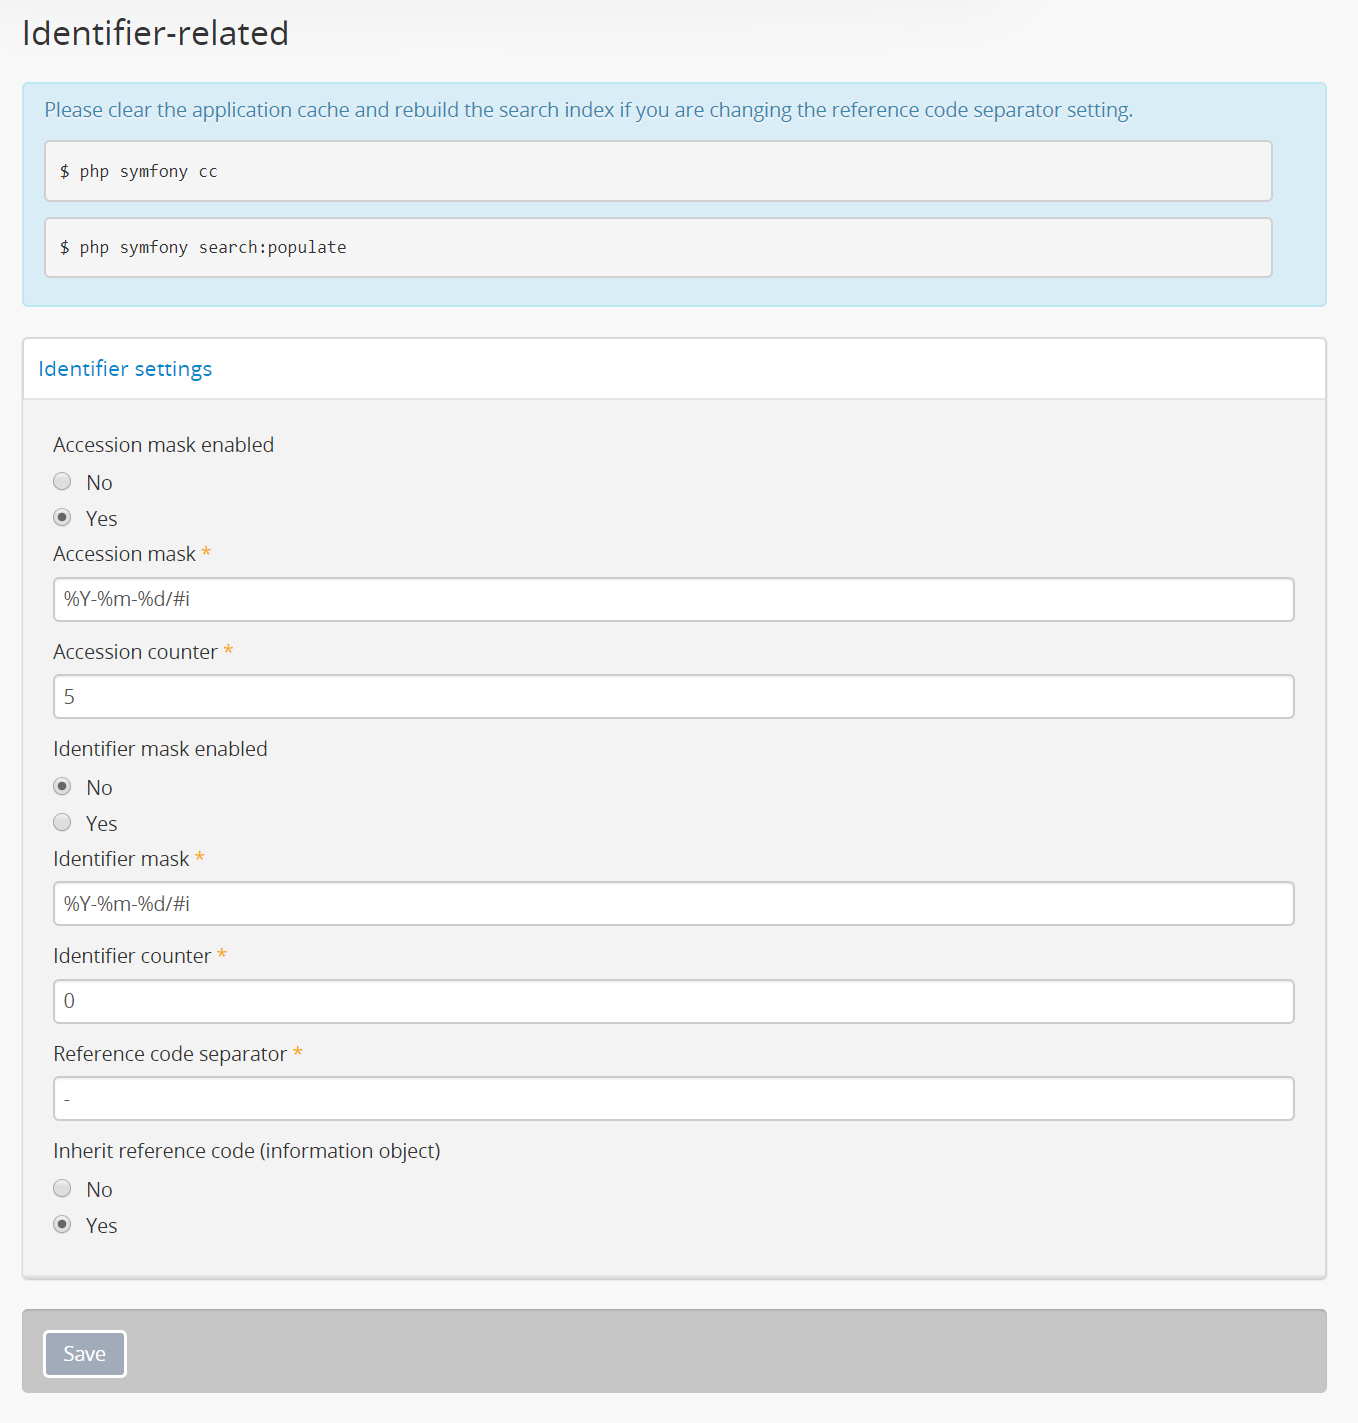
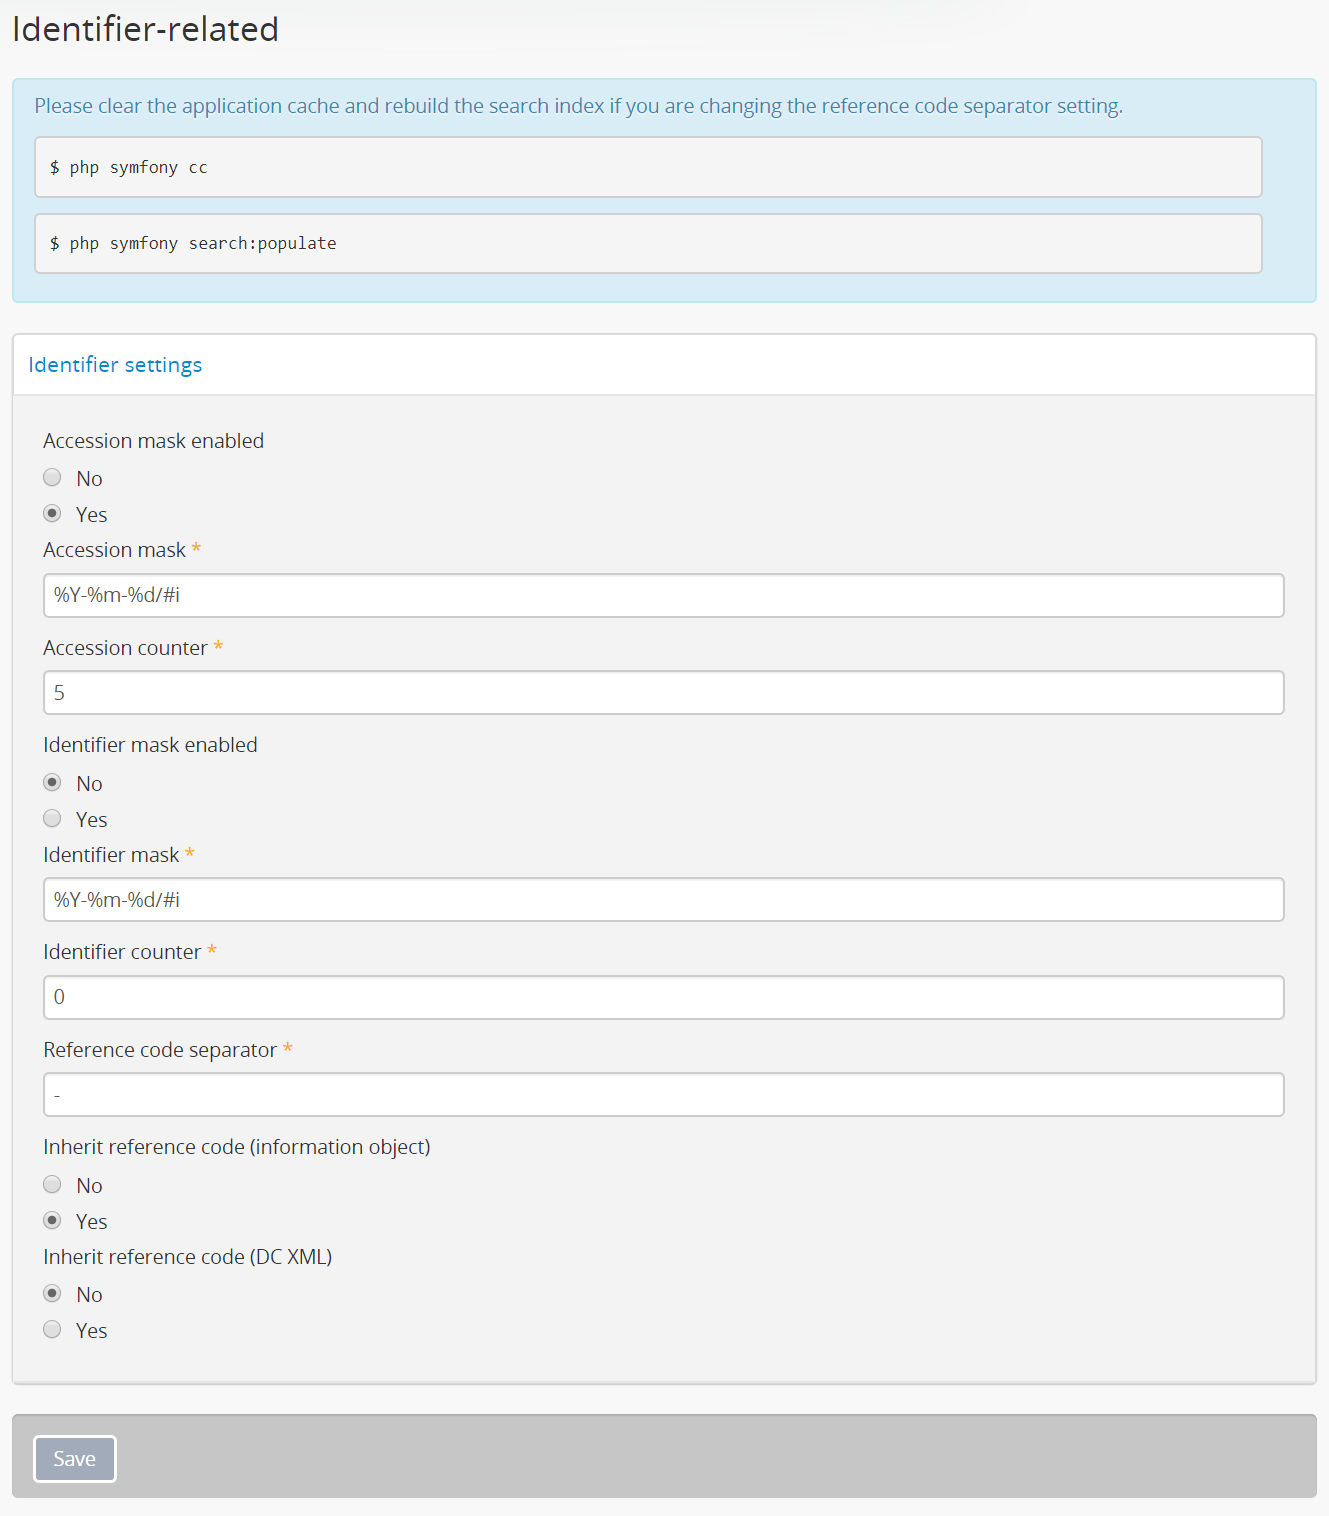
Add DC identifier inheritance setting, refs #13244

diff --git a/user-manual/administer/settings.rst b/user-manual/administer/settings.rst
@@ -1369,13 +1369,14 @@ section of the settings.
 **Jump to:**
 
 * :ref:`enable-accession-mask`
-* :ref:`Accession mask <accession-mask>`
-* :ref:`Accession counter <accession-counter>`
+* :ref:`accession-mask`
+* :ref:`accession-counter`
 * :ref:`enable-identifier-mask`
-* :ref:`Identifier mask <identifier-mask>`
-* :ref:`Identifier counter <identifier-counter>`
-* :ref:`Reference code separator <reference-code-separator>`
-* :ref:`Inherit reference code (Information object) <inherit-reference-code>`
+* :ref:`identifier-mask`
+* :ref:`identifier-counter`
+* :ref:`reference-code-separator`
+* :ref:`inherit-reference-code`
+* :ref:`inherit-reference-dc`
 
 .. _enable-accession-mask:
 
@@ -1655,11 +1656,60 @@ information to help orient the user.
    target AtoM instance *also* has the setting turned on, you may end up with
    duplication in the display!
 
+   Note as well, this setting does **not** affect the behavior of DC XML exports.
+   This behavior can be managed separately via a different setting - see below: 
+
+   * :ref:`inherit-reference-dc` 
+
 .. SEEALSO::
 
    * :ref:`Control area <control-area>`
    * :ref:`reference-code-separator`
    * :ref:`escape-chars`
+   * :ref:`inherit-reference-dc`
+
+.. _inherit-reference-dc:
+
+Inherit reference code (DC XML)
+-------------------------------
+
+This setting controls whether an individual :term:`archival description`'s
+identifier or its full inherited :term:`reference code` is used when a 
+description is exported as Dublin Core XML (including when exposed via AtoM's 
+:ref:`oai-pmh` module.  
+
+.. SEEALSO::
+
+   * For more information on reference codes in AtoM and how inheritance works, 
+     see above: :ref:`inherit-reference-code`
+   * To set the default separator character used in inherited reference codes, 
+     see: :ref:`reference-code-separator`
+   * To learn more about Dublin Core in AtoM, see: :ref:`dc-template`
+   * For more on XML export, see: :ref:`export-xml`
+   * To learn more about how Dublin Core XML is used in AtoM's OAI repository 
+     module, see: :ref:`oai-pmh`
+
+When set to "No," only the current description's identifier will be included in 
+DC XML exports. When set to "Yes," AtoM will use the reference code inheritance
+model described above in :ref:`inherit-reference-code`, meaning in addition to 
+the description's local identifier, the ``<dc:identifer>`` will also include: 
+
+* The country code of any related :term:`archival institution` (derived from the 
+  country added in the address section of the related :term:`repository` record)
+* The repository identifier of any related :term:`archival institution`
+* Identifiers of any :term:`parent <parent record>` descriptions, separated by
+  the default separator defined in the :ref:`reference-code-separator` setting
+
+By default, this setting is set to "No" in new installations. 
+
+.. IMPORTANT::
+
+   This setting does **not** alter the behavior of how identifiers / reference 
+   codes are displayed on description :term:`view pages <view page>`, nor does 
+   it affect how identifiers are handled in EAD 2002 XML exports. 
+
+   Both of these are instead affected by the :ref:`inherit-reference-code` 
+   setting, described above. 
 
 :ref:`Back to top <settings>`
 
